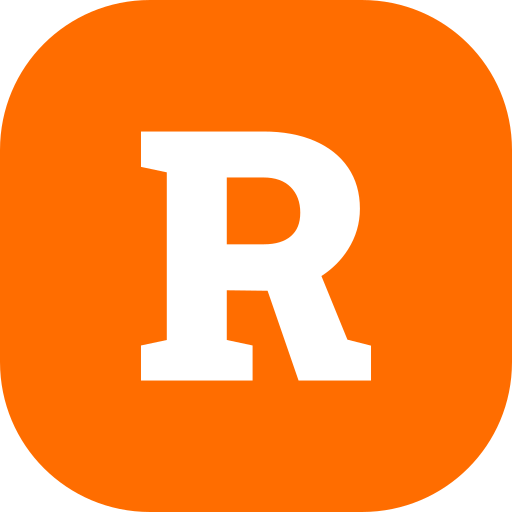
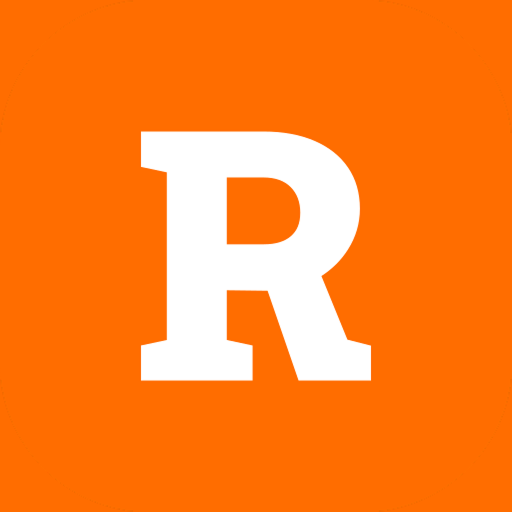
fix: 아이콘 가장자리 채우기

diff --git a/client/src/app/introduce/page.tsx b/client/src/app/introduce/page.tsx
@@ -1,0 +1,3 @@
+export default function Introduce() {
+  return <main></main>;
+}
